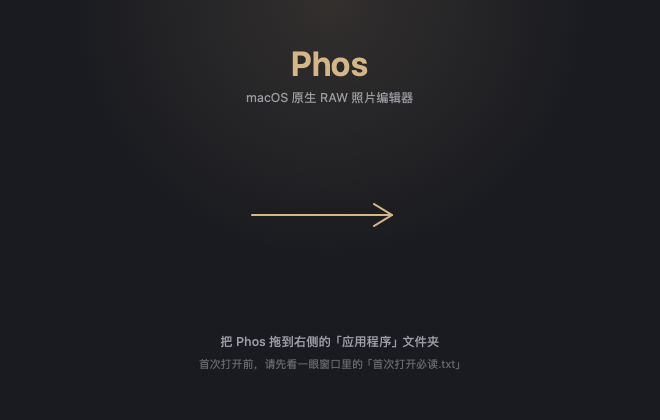
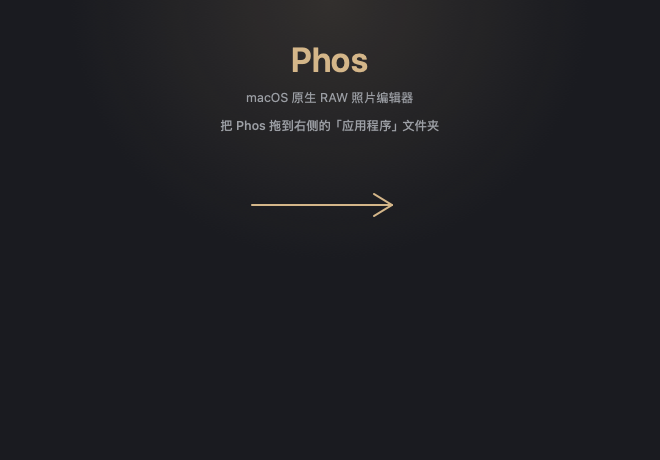
修复 DMG 安装窗口里「首次打开必读.txt」挡住标题的问题
根因：`.DS_Store` 里 Iloc 的 y 是**从窗口顶部往下**算的，我按从底部算，
把文件放到了 (330, 96) —— 结果它跑到最上面，压在 Phos 标题和副标题上。

改动：
- 窗口 660×420 → 660×460，给底部留出独立一行
- 必读文件 (330, 96) → (330, 345)，落到两个图标下方
- 背景图版面重排：标题 / 副标题 / 拖拽提示都挪到上方，
  下方整块留给必读文件；箭头仍与两个图标对齐
  （背景图 arrowY=255 从底部算 = 从顶部 205，正好是图标的 y）
- settings.py 与 DMGBackground.swift 都补了坐标系注释，避免再踩

实测：窗口 660×460；Phos.app(165,205) / Applications(495,205) /
必读(330,345)；背景含 660×460@72 与 1320×920@144 两档。

Changed region(s): [[0.3333, 0.0929, 0.6667, 0.3095], [0.303, 0.7738, 0.697, 0.8976], [0.3939, 0.4333, 0.6061, 0.5262]]

diff --git a/Tools/DMGBackground.swift b/Tools/DMGBackground.swift
@@ -15,12 +15,21 @@ import UniformTypeIdentifiers
 /// 单文件编译时不能写 `@main`（会与顶层代码冲突），所以入口放在文件末尾。
 struct DMGBackground {
     static let width: CGFloat = 660
-    static let height: CGFloat = 420
+    static let height: CGFloat = 460
+
+    // 坐标以「左下角」为原点（CoreGraphics 的约定）。
+    // 注意 .DS_Store 里的 Iloc 用的是「从窗口顶部往下」的 y，两者要换算，
+    // 换算关系见 settings.py 的注释。
+    //
+    // 版面自上而下：标题 / 副标题 / 拖拽提示 → 两个图标 + 箭头 → 必读文件。
+    static let titleBaseline: CGFloat = 388
+    static let subtitleBaseline: CGFloat = 358
+    static let hintBaseline: CGFloat = 330
+    static let arrowY: CGFloat = 255
 
     static let gold = CGColor(red: 0.788, green: 0.659, blue: 0.463, alpha: 1)   // #C9A876
     static let ink = CGColor(red: 0.078, green: 0.082, blue: 0.094, alpha: 1)    // #141518
     static let dim = CGColor(red: 0.541, green: 0.553, blue: 0.580, alpha: 1)    // #8A8D94
-    static let faint = CGColor(red: 0.337, green: 0.345, blue: 0.365, alpha: 1)  // #565860
 
     static func font(_ size: CGFloat, _ weight: NSFont.Weight) -> CTFont {
         NSFont.systemFont(ofSize: size, weight: weight) as CTFont
@@ -67,12 +76,15 @@ struct DMGBackground {
 
         // 品牌
         draw("Phos", font: font(34, .semibold), color: gold,
-             centerX: width / 2, baseline: 344, in: ctx)
+             centerX: width / 2, baseline: titleBaseline, in: ctx)
         draw("macOS 原生 RAW 照片编辑器", font: font(12.5, .regular), color: dim,
-             centerX: width / 2, baseline: 318, in: ctx)
+             centerX: width / 2, baseline: subtitleBaseline, in: ctx)
+        // 提示挪到上面，把下方整块留给「首次打开必读」那个文件
+        draw("把 Phos 拖到右侧的「应用程序」文件夹", font: font(12.5, .medium), color: dim,
+             centerX: width / 2, baseline: hintBaseline, in: ctx)
 
-        // 两个图标之间的引导箭头（图标中心 y = 205）
-        let y: CGFloat = 205
+        // 两个图标之间的引导箭头
+        let y = arrowY
         ctx.setStrokeColor(gold)
         ctx.setLineWidth(2)
         ctx.setLineCap(.round)
@@ -84,13 +96,6 @@ struct DMGBackground {
         ctx.addLine(to: CGPoint(x: 392, y: y))
         ctx.addLine(to: CGPoint(x: 374, y: y - 11))
         ctx.strokePath()
-
-        // 底部提示
-        draw("把 Phos 拖到右侧的「应用程序」文件夹", font: font(12.5, .medium), color: dim,
-             centerX: width / 2, baseline: 74, in: ctx)
-        draw("首次打开前，请先看一眼窗口里的「首次打开必读.txt」",
-             font: font(11, .regular), color: faint,
-             centerX: width / 2, baseline: 52, in: ctx)
 
         return ctx.makeImage()
     }

diff --git a/Scripts/dmg/settings.py b/Scripts/dmg/settings.py
@@ -25,8 +25,8 @@ symlinks = {"Applications": "/Applications"}
 # 直接给 PNG 的话 dmgbuild 会转成单分辨率 TIFF，Retina 上会发虚。
 background = os.environ.get("DMG_BACKGROUND", os.path.join(assets, "background.tiff"))
 
-# 窗口：内容区 660×420，与背景图一致
-window_rect = ((260, 200), (660, 420))
+# 窗口：内容区 660×460，与背景图一致（Tools/DMGBackground.swift 里的 height）
+window_rect = ((260, 180), (660, 460))
 default_view = "icon-view"
 
 show_status_bar = False
@@ -38,9 +38,14 @@ show_sidebar = False
 icon_size = 96
 text_size = 12
 
-# 图标位置用「窗口左下角为原点」的坐标，与背景图上画的位置对应
+# ⚠ 图标位置的 y 是「从窗口顶部往下」算的，和背景图（CoreGraphics，从底部往上）相反。
+# 之前按从底部算，把「首次打开必读.txt」放到了 (330, 96) —— 结果它跑到标题上去了。
+#
+# 版面自上而下：标题 / 副标题 / 拖拽提示（背景图上画好）→ 两个图标 → 必读文件。
+# 背景图里的箭头画在 arrowY = 255（从底部算），换算成从顶部算是 460-255 = 205，
+# 所以两个图标的 y 用 205，正好压在箭头两端。
 icon_locations = {
     "Phos.app": (165, 205),
     "Applications": (495, 205),
-    "首次打开必读.txt": (330, 96),
+    "首次打开必读.txt": (330, 345),
 }
